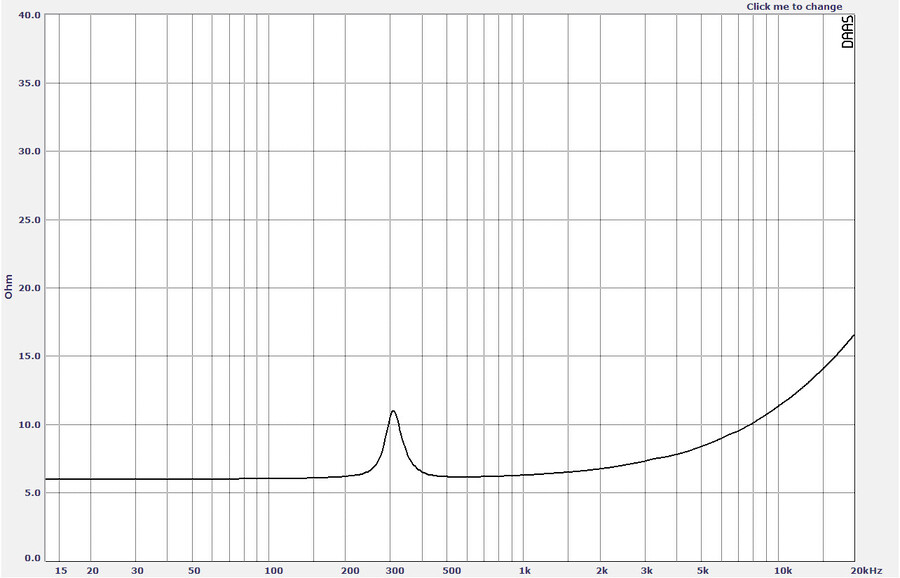
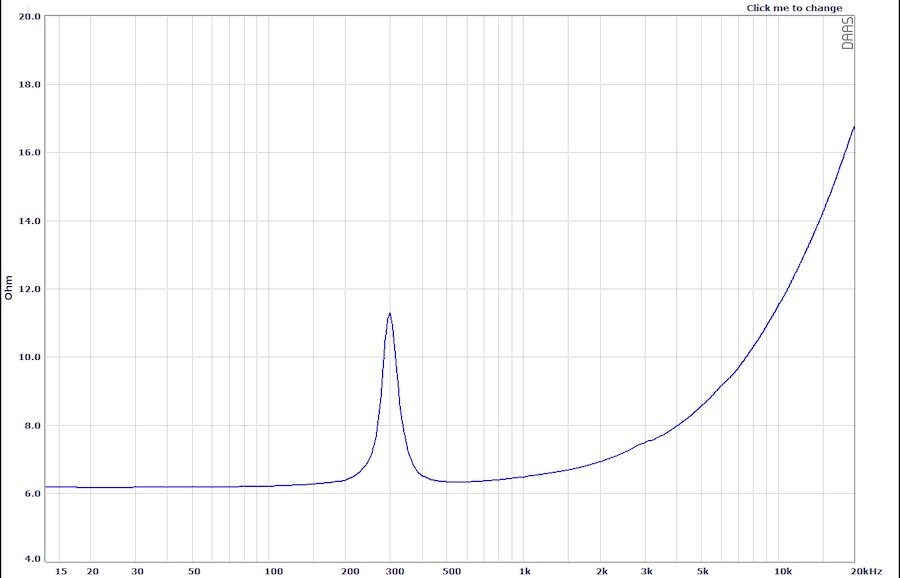
修改32SF阻抗图

diff --git a/_products/SPW-32SF.md b/_products/SPW-32SF.md
@@ -15,7 +15,7 @@ notes:
   - 80 dB/SPL SENSITIVITY
   - 20 WATT RMS
   - 800 - 15000 Hz FREQUENCY RESPONSE
-  - FULL SHIELDED
+  - FULLY SHIELDED
 # General specifications
 nominal_diameter: "3 inch"
 nominal_impedance: "8 Ω"
@@ -24,7 +24,7 @@ voice_coil_diameter: "0.58 inch"
 power_rating: "10W RMS"
 peak_power: "20W"
 sensitivity: "80.0 dB"
-frequency_range: "800~15000 Hz"
+frequency_range: "300~15000 Hz"
 
 coil_material: "Round Copper"
 former_material: "Aluminum"
@@ -34,15 +34,15 @@ magnet_material: "Ferrite"
 basket_material: "Steel"
 
 # T/S parameters
-fs: "308.0 Hz"
-re: "5.7 Ω"
-mms: "1.4 g"
-cms: "0.19 mm/N"
-bl: "1.6 N/A"
-qms: "6.19"
-qes: "6.21"
-qts: "3.10"
-vas: "0.1 L"
+fs: "295.5 Hz"
+re: "5.8 Ω"
+mms: "1.3 g"
+cms: "0.22 mm/N"
+bl: "1.5 N/A"
+qms: "6.15"
+qes: "6.35"
+qts: "3.13"
+vas: "0.2 L"
 le: "0.12 mH"
 sd: "22.9 cm²"
 
